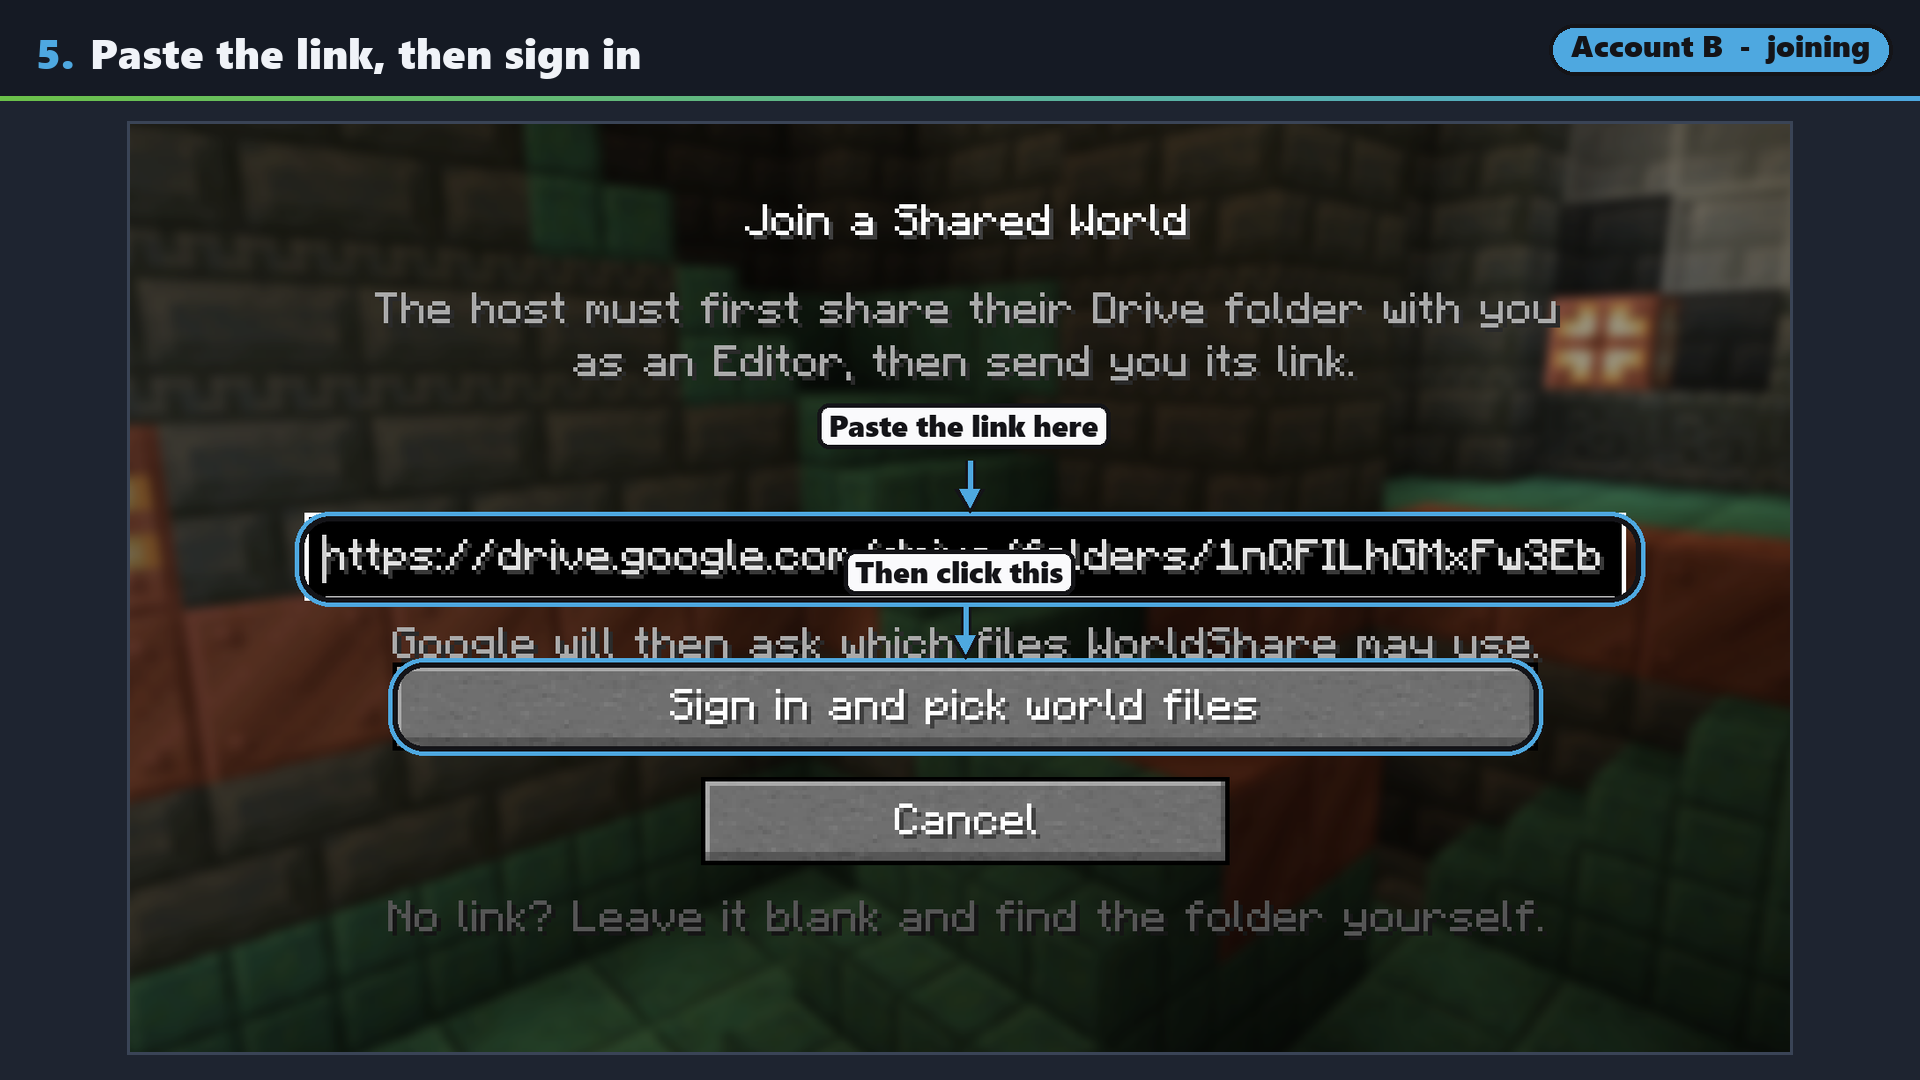
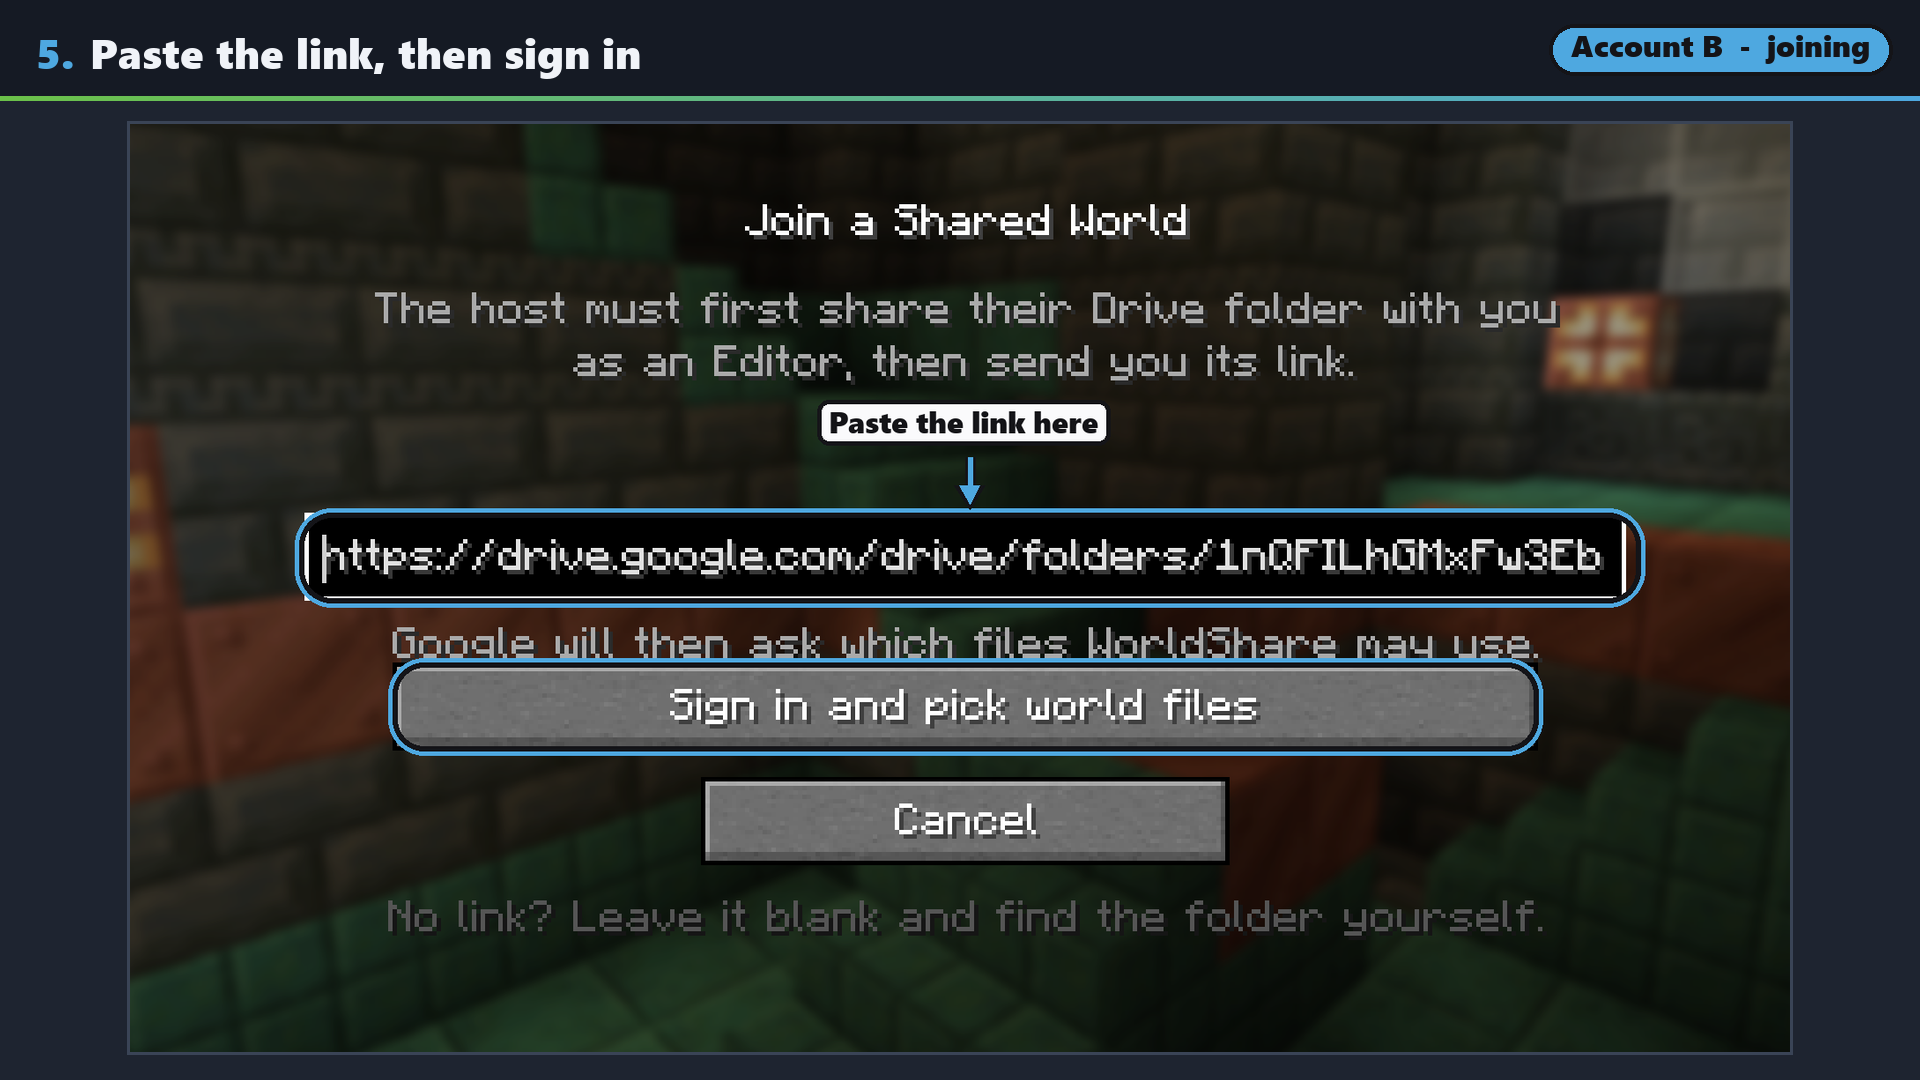
Crop each slide to what it is actually showing
Reviewing the deck as contact sheets rather than one slide at a time turned up
the obvious problem: a full 1897x859 Minecraft window shrunk into a 1920x1080
frame leaves the chat output about 14 pixels tall. Every step whose content is
a command or its reply now carries a crop.

Three ways to say where:

  "chat"      find the dark low-saturation panel. It has to reject anything
              starting right of 15% width, or the hotbar wins - it is just as
              dark and just as wide as the chat box.
  "row"       find the red remove button, which is the one landmark every
              Contributor Worlds row has, and take the band around it. The row
              shots were taken at whatever window height was up at the time.
  (x,y,w,h)   fractions, for the rest.

Also fixed while looking at all thirty at once:

  - host-13 ringed Mods. Save and Upload to Drive is button 8, not 7.
  - guest-03 was cropped to the hotbar. The shot is the invite *output* with
    the copy tooltip, which lives in the upper half.
  - host-11/12 cut off the WorldShare folder row, which is the entire point of
    the pair.
  - guest-05 stacked two cards in the 90px gap between the URL box and the
    button. The button keeps its ring and loses its card: left and right both
    overflow, below covers Cancel, and "Sign in and pick world files" already
    says what it does.

Six seconds a slide, up from five - five still read as rushed on the steps
that carry a paragraph of chat.

Changed region(s): [[0.1562, 0.4583, 0.8438, 0.6111], [0.4062, 0.3667, 0.5938, 0.4278]]

diff --git a/docs/guide/spec.py b/docs/guide/spec.py
@@ -30,10 +30,10 @@ HOST = [
     dict(n=2, file="WorldShareInSinglePlayer.png", account="A",
          title="Open the world you want to share", marks=[]),
 
-    dict(n=3, file="RunningWorldshareSetup.png", account="A",
+    dict(n=3, file="RunningWorldshareSetup.png", crop=(0.0, 0.84, 0.80, 0.16), account="A",
          title="Run /worldshare setup", marks=[]),
 
-    dict(n=4, file="RanWorldShareSetup.png", account="A",
+    dict(n=4, file="RanWorldShareSetup.png", crop="chat", account="A",
          title="Click the link to sign in to Google", marks=[]),
 
     dict(n=5, file="WorldShare1stAuthorizationForSetup.png", account="drive",
@@ -48,22 +48,22 @@ HOST = [
     dict(n=8, file="WorldShareSetupAuthorized.png", account="drive",
          title="Done - go back to Minecraft", marks=[]),
 
-    dict(n=9, file="WorldShareSetupProgressBarInGame.png", account="A",
+    dict(n=9, file="WorldShareSetupProgressBarInGame.png", crop=(0.12, 0.43, 0.76, 0.32), account="A",
          title="WorldShare builds the world's files - about half a minute",
          marks=[]),
 
     dict(n=10, file="WorldshareSetupSuccessfulChatMessage.png", account="A",
          title="Setup is finished", marks=[]),
 
-    dict(n=11, file="DriveBeforeRunningWorldshareSetup.png", account="drive",
+    dict(n=11, file="DriveBeforeRunningWorldshareSetup.png", crop=(0.0, 0.0, 0.56, 0.52), account="drive",
          title="Your Drive before", marks=[]),
 
-    dict(n=12, file="DriveAfterRunningWorldshareSetup.png", account="drive",
+    dict(n=12, file="DriveAfterRunningWorldshareSetup.png", crop=(0.0, 0.0, 0.56, 0.52), account="drive",
          title="And after - WorldShare made its own folder", marks=[]),
 
     dict(n=13, file="WorldShareSaveAndUploadMenu.png", account="A",
          title="Quitting uploads the world",
-         marks=[dict(at="button:7", label="This replaces Save and Quit", side="right")]),
+         marks=[dict(at="button:8", label="This replaces Save and Quit", side="below")]),
 
     dict(n=14, file="UploadProgressBar.png", account="A",
          title="Your world uploads to Drive", marks=[]),
@@ -71,10 +71,10 @@ HOST = [
     dict(n=15, file="ContributorWorldsAfterSetup.png", account="A",
          title="The world is ready to share", marks=[]),
 
-    dict(n=16, file="RunningWorldshareHost.png", account="A",
+    dict(n=16, file="RunningWorldshareHost.png", crop=(0.0, 0.84, 0.80, 0.16), account="A",
          title="Optional: /worldshare host opens it for live co-op", marks=[]),
 
-    dict(n=17, file="WorldShareRanWorldshareHost.png", account="A",
+    dict(n=17, file="WorldShareRanWorldshareHost.png", crop="chat", account="A",
          title="Your friend can now join you directly", marks=[]),
 ]
 
@@ -82,14 +82,14 @@ HOST = [
 
 GUEST = [
     # The host's screen first - this is where the link the guest needs comes from.
-    dict(n=1, file="RunningWorldshareInvite.png", account="A",
+    dict(n=1, file="RunningWorldshareInvite.png", crop=(0.0, 0.84, 0.80, 0.16), account="A",
          title="The host runs /worldshare invite with your email", marks=[]),
 
-    dict(n=2, file="RanWorldshareInvite.png", account="A",
+    dict(n=2, file="RanWorldshareInvite.png", crop="chat", account="A",
          title="Google shares the folder, and prints the link to send you",
          marks=[]),
 
-    dict(n=3, file="RunningWorldshareInviteWithNoEmail.png", account="A",
+    dict(n=3, file="RunningWorldshareInviteWithNoEmail.png", crop=(0.0, 0.35, 0.93, 0.53), account="A",
          title="Or /worldshare invite alone, just for the link", marks=[]),
 
     # Handover.
@@ -100,9 +100,15 @@ GUEST = [
     dict(n=5, file="PutInLinkForSharedWorld.png", account="B",
          title="Paste the link, then sign in",
          marks=[
-             dict(at=(0.105, 0.428, 0.803, 0.083), label="Paste the link here",
+             # The URL box is not one of Minecraft's grey widgets, so
+             # find_buttons cannot see it - hence the explicit rect. button:0
+             # is "Sign in and pick world files"; button:1 is Cancel.
+             dict(at=(0.105, 0.424, 0.803, 0.088), label="Paste the link here",
                   side="above"),
-             dict(at="button:0", label="Then click this", side="below"),
+             # Ring only. There is no room for a card beside this button -
+             # left and right both overflow, and below covers Cancel - and the
+             # button already says what it does.
+             dict(at="button:0"),
          ]),
 
     dict(n=6, file="WorldShareAuthStep1ForJoiningWorld.png", account="drive",
@@ -127,7 +133,7 @@ GUEST = [
          ]),
 
     # Two rows, one slide: what you see depends on whether e4mc is installed.
-    dict(n=10, file="WorldshareDownloadAfterSubscribingToWorld.png", account="B",
+    dict(n=10, file="WorldshareDownloadAfterSubscribingToWorld.png", account="B", crop="row",
          title="The world appears - what you can do depends on e4mc",
          pair="WorldshareLiveExample.png",
          caption_a="Without e4mc, or nobody hosting: download it and play later",
@@ -138,14 +144,14 @@ GUEST = [
          marks=[dict(at="row-action")],
          pair_marks=[dict(at="row-action")]),
 
-    dict(n=11, file="WorldshareDownloadingProgressBar.png", account="B",
+    dict(n=11, file="WorldshareDownloadingProgressBar.png", crop="chat", account="B",
          title="Downloading - once only, then it stays", marks=[]),
 
-    dict(n=12, file="WorldshareWorldOpenExample.png", account="B",
+    dict(n=12, file="WorldshareWorldOpenExample.png", account="B", crop="row",
          title="Open it and play",
          marks=[dict(at="row-action", label="Click Open", side="left")]),
 
-    dict(n=13, file="WorldshareLockedExample.png", account="B",
+    dict(n=13, file="WorldshareLockedExample.png", account="B", crop="row",
          title="If they are playing, the world is locked until they finish",
          marks=[]),
 ]

diff --git a/docs/guide/annotate.py b/docs/guide/annotate.py
@@ -91,6 +91,79 @@ def find_row_action(img):
     return (xs.start, ys.start, xs.stop - xs.start, ys.stop - ys.start)
 
 
+def find_row_band(img, pad_frac=0.55):
+    """Vertical extent of a Contributor Worlds row, for cropping to it.
+
+    The row screenshots were taken at whatever height the window happened to be,
+    so one carries 300px of empty world under the row and another almost none.
+    Stacked on a slide they look like a mistake. Every row has the same landmark:
+    a small red remove button at its left edge, which is the only strongly red
+    thing on screen - so find that, and take the band around it.
+    """
+    a = np.asarray(img.convert("RGB")).astype(int)
+    H, W, _ = a.shape
+    r, g, b = a[:, :, 0], a[:, :, 1], a[:, :, 2]
+    reddish = (r > g + 30) & (r > b + 30) & (r > 70)
+    reddish[:, int(W * 0.25):] = False          # left edge only
+    reddish = ndimage.binary_closing(reddish, np.ones((3, 3)))
+    lab, n = ndimage.label(reddish)
+    if n == 0:
+        return None
+    sizes = ndimage.sum(reddish, lab, range(1, n + 1))
+    ys, xs = ndimage.find_objects(lab)[int(np.argmax(sizes))]
+    h = ys.stop - ys.start
+    pad = int(h * pad_frac)
+    return (max(0, ys.start - pad), min(H, ys.stop + pad))
+
+
+def crop_to_chat(img, pad=0.04):
+    """Crop to Minecraft's chat / command panel, if one can be found confidently.
+
+    The panel is a flat, dark, low-saturation overlay, which is distinctive
+    enough to find - but not always: a progress bar sits on the world with no
+    panel behind it, and a shot that is already mostly chat has nothing to
+    separate. So the result is sanity-checked, and anything implausible is
+    treated as "no crop" rather than trusted. Slides that need a crop the
+    detector cannot find get an explicit rectangle in spec.py.
+    """
+    a = np.asarray(img.convert("RGB")).astype(int)
+    H, W, _ = a.shape
+    v = a.mean(axis=2)
+    sat = a.max(axis=2) - a.min(axis=2)
+    dark = (v < 90) & (sat < 40)
+    dark = ndimage.binary_closing(dark, np.ones((3, 41)))
+    lab, n = ndimage.label(dark)
+    best = None
+    for i, sl in enumerate(ndimage.find_objects(lab), 1):
+        ys, xs = sl
+        w, h = xs.stop - xs.start, ys.stop - ys.start
+        if w < W * 0.30 or h < 12 or (lab[sl] == i).mean() < 0.55:
+            continue
+        # Chat hugs the left edge; the hotbar is centred. Without this the
+        # hotbar wins on several shots, being just as dark and just as wide,
+        # and the slide ends up showing an inventory bar instead of a command.
+        if xs.start > W * 0.15:
+            continue
+        if w * h > W * H * 0.80:        # it found the whole screenshot
+            continue
+        if best is None or w * h > best[0]:
+            best = (w * h, xs.start, ys.start, w, h)
+    if best is None:
+        return img
+    _, x, y, w, h = best
+    px, py = int(W * pad), int(H * pad)
+    return img.crop((max(0, x - px), max(0, y - py),
+                     min(W, x + w + px), min(H, y + h + py)))
+
+
+def crop_to_row(img):
+    band = find_row_band(img)
+    if band is None:
+        return img
+    y0, y1 = band
+    return img.crop((0, y0, img.width, y1))
+
+
 def resolve(img, target):
     """A target spec -> pixel box. 'button:N' or (x, y, w, h) normalised."""
     W, H = img.size
@@ -231,6 +304,16 @@ def font_at(size):
 def render(step, shrink=1.0, accent=None):
     src = os.path.join(SRC, step["file"])
     img = Image.open(src).convert("RGB")
+    c = step.get("crop")
+    if c == "row":
+        img = crop_to_row(img)
+    elif c == "chat":
+        img = crop_to_chat(img)
+    elif isinstance(c, (tuple, list)):
+        W0, H0 = img.size
+        x, y, w, h = c
+        img = img.crop((int(x * W0), int(y * H0),
+                        int((x + w) * W0), int((y + h) * H0)))
     W, H = img.size
     # Annotations are sized in the pixels they will finally occupy, not the
     # pixels of the source. The screenshots run from 1432 to 3361 wide and are

diff --git a/docs/guide/video.py b/docs/guide/video.py
@@ -4,7 +4,7 @@ Encode the slide decks into MP4s.
 Uses the ffmpeg that ships with imageio-ffmpeg, so there is nothing to install
 separately and nothing to find on PATH.
 
-Four seconds a slide by default, with a cross-fade between them. The fade is not
+Six seconds a slide by default, with a cross-fade between them. The fade is not
 decoration: cutting hard between two Minecraft screenshots that differ by one
 chat line reads as a glitch rather than a step, and a short dissolve makes the
 change legible.
@@ -31,7 +31,7 @@ def deck_files(deck):
     return sorted(glob.glob(os.path.join(SLIDES, "%s-*.png" % deck)))
 
 
-def build(deck, seconds=4.0):
+def build(deck, seconds=6.0):
     files = deck_files(deck)
     if not files:
         print("no slides for", deck)
@@ -74,6 +74,6 @@ def build(deck, seconds=4.0):
 
 if __name__ == "__main__":
     which = sys.argv[1] if len(sys.argv) > 1 else None
-    secs = float(sys.argv[2]) if len(sys.argv) > 2 else 4.0
+    secs = float(sys.argv[2]) if len(sys.argv) > 2 else 6.0
     for deck in ([which] if which else ["host", "guest", "states"]):
         build(deck, secs)

diff --git a/docs/guide/slide.py b/docs/guide/slide.py
@@ -102,6 +102,14 @@ def build(step, deck, index):
 
     def probe(name):
         with Image.open(os.path.join(annotate.SRC, name)) as im:
+            c = step.get("crop")
+            rgb = im.convert("RGB")
+            if c == "row":
+                return annotate.crop_to_row(rgb).size
+            if c == "chat":
+                return annotate.crop_to_chat(rgb).size
+            if isinstance(c, (tuple, list)):
+                return (int(c[2] * rgb.width), int(c[3] * rgb.height))
             return im.size
 
     if step.get("pair"):
